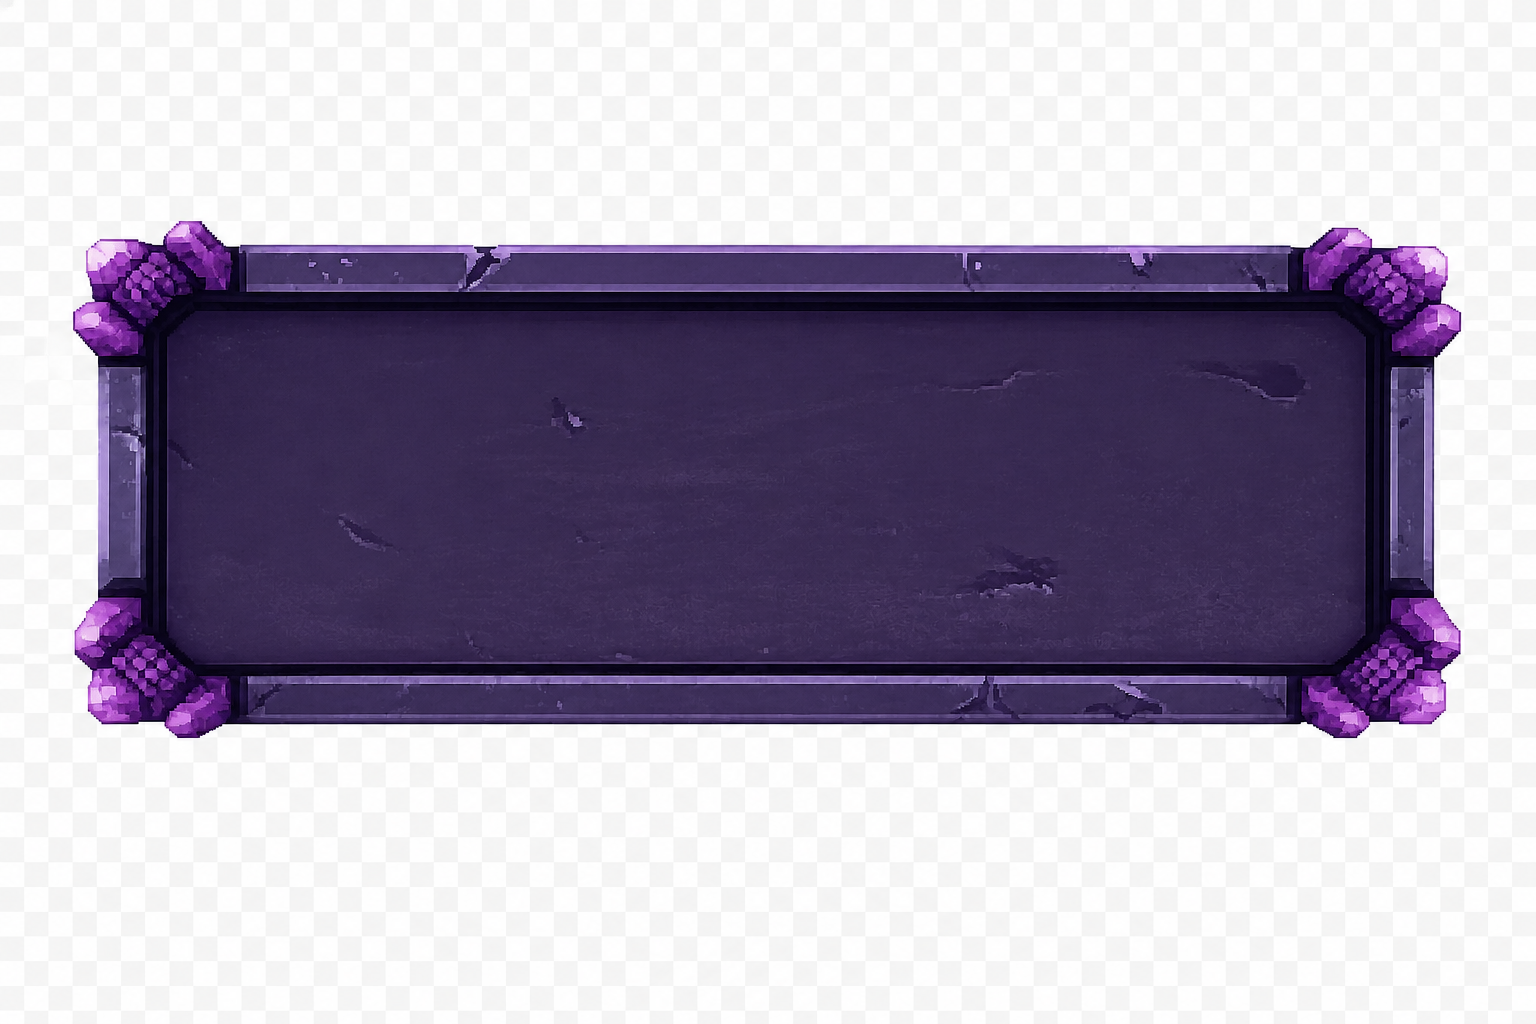
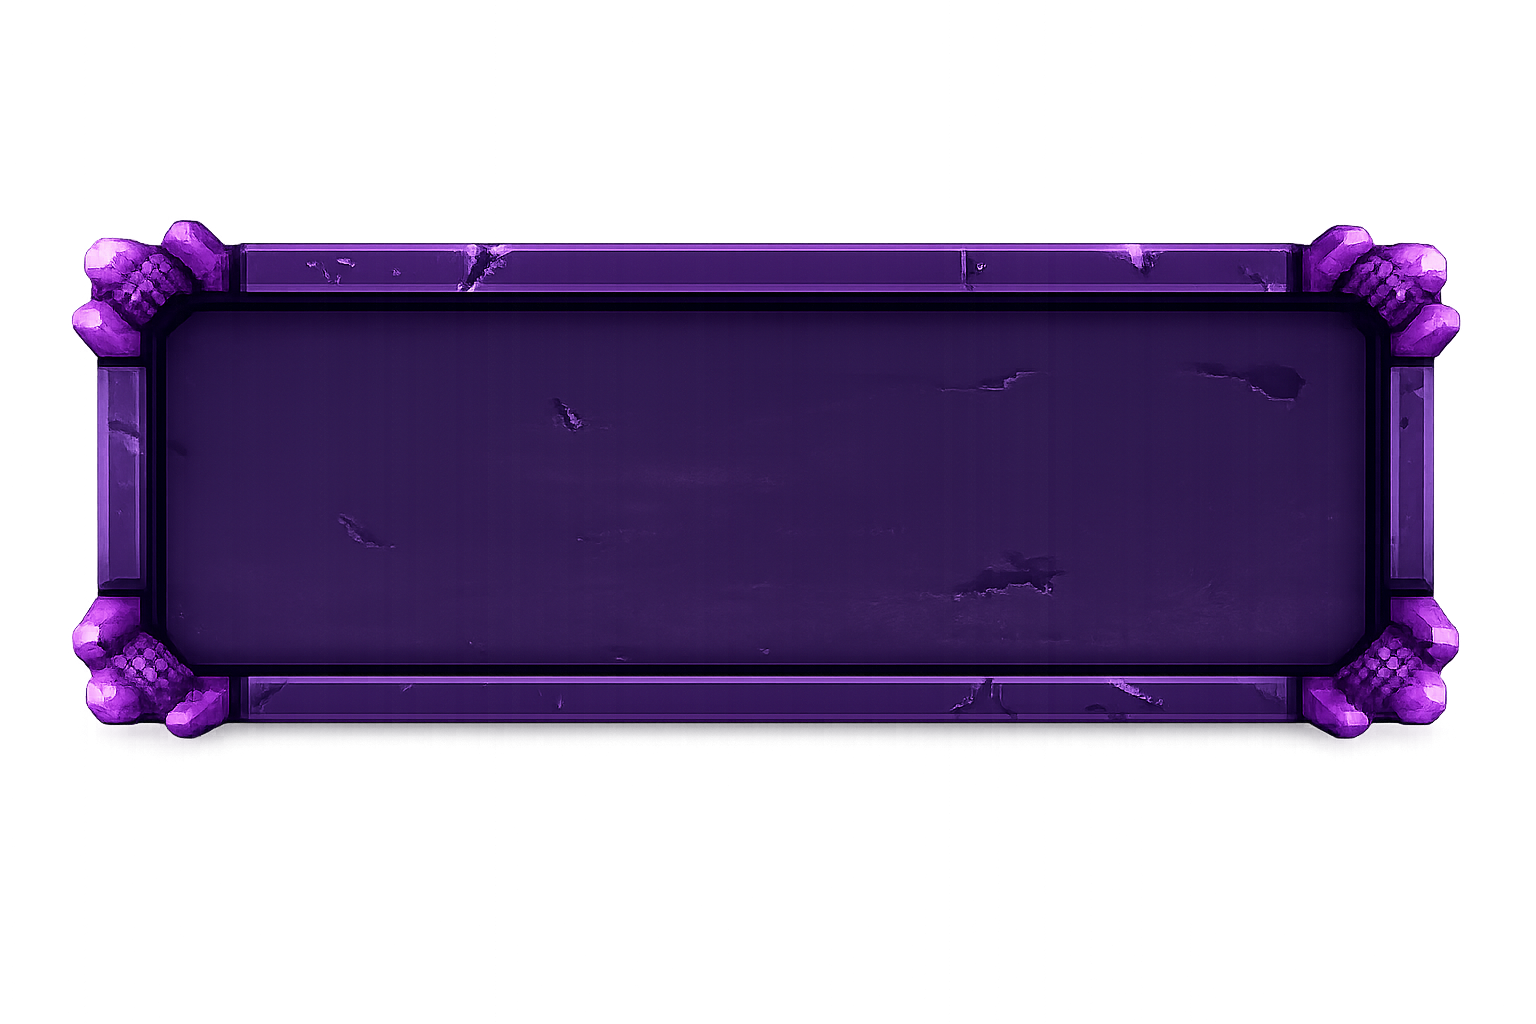
painel tempo atualizado

diff --git a/client/js/scene0.js b/client/js/scene0.js
@@ -770,7 +770,7 @@ class scene0 extends Phaser.Scene {
         "paineltempo",
       )
       .setOrigin(1, 0)
-      .setScale(0.2)
+      .setScale(0.14)
       .setScrollFactor(0)
       .setDepth(995);
 